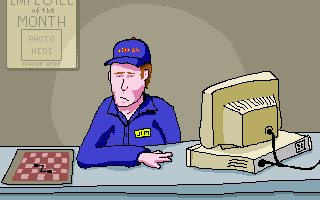
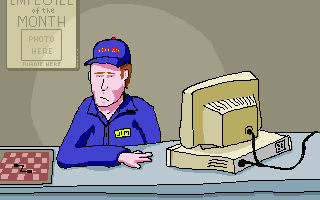
Beginnings of cutscene rendering.

diff --git a/connector/connector.js b/connector/connector.js
@@ -31,6 +31,7 @@ function Init() {
 
   window.sellframes = EzFrames(['sell1', 2, 'sell2', 2]);
   window.titleframes = EzFrames(['title', 1]);
+  window.deskbubbleframes = EzFrames(['deskbubble', 1]);
 
   // West-East
   var wirebar = ConnectorGraphic(5, 3);
@@ -163,6 +164,32 @@ function InitGame() {
   // These are canvas coordinates, updated on animation frame.
   window.mousex = 0;
   window.mousey = 0;
+
+
+  // Cutscenes..
+  window.cutscenes = {
+    intro: [{ f: EzFrames(['desk', 1]),
+	      s: song_menu,
+	      predelay: 40,
+	      t: [' Hey, I\'m Jim. I ',
+		  'work at Connector ',
+		  'World, your one-stop ',
+		  'shop for all your ',
+		  '   connecting needs.'] },
+	    { f: EzFrames(['desk', 1]),
+	      s: song_menu,
+	      t: [' Today I am gonna,',
+		  'be \'outsourcing\' my',
+		  'job. You\'re going',
+		  'to do it, because'] },
+	    { f: EzFrames(['desk', 1]),
+	      s: song_menu,
+	      t: [' you seem to think',
+		  'my job is some kind',
+		  'of game, which is',
+		  'weird.'] }
+	   ]
+  };
 
   console.log('initialized game');
 
@@ -474,6 +501,59 @@ function Trace(x, y, dir) {
   return null;
 }
 
+function DrawCutscene() {
+  var cuts = window.cutscenes[window.cutscene];
+  if (!cuts) throw 'invalid cutscene';
+  var cs = cuts[window.cutscene_idx];
+  if (!cs) throw 'invalid cutscene idx';
+
+  var predelay = cs.predelay || 10;
+  DrawFrame(cs.f, 0, 0);
+  window.cutscene_frames++;
+  if (window.cutscene_ffwd) window.cutscene_frames += 3;
+  if (window.cutscene_frames >= predelay) {
+    DrawFrame(window.deskbubbleframes, DESKBUBBLEX, DESKBUBBLEY);
+    var charsleft = 
+	// 1 char per frame, ok?
+	window.cutscene_frames - predelay;
+
+    var lines = cs.t;
+    for (var i = 0; i < lines.length; i++) {
+      var s = (lines[i].length <= charsleft) ?
+	  lines[i] :
+	  lines[i].substring(0, charsleft);
+      charsleft -= s.length;
+      font.Draw(ctx, CUTSCENETEXTX, 
+		CUTSCENETEXTY + FONTH * i,
+		s);
+    }
+    
+    if (charsleft > 0) {
+      // Allow continuing.
+      // (draw 'CLICK' indicator?)
+      window.cutscene_ready = true;
+      window.cutscene_ffwd = false;
+    }
+  }
+}
+
+function StartCutscene(name) {
+  window.cutscene = name;
+  window.cutscene_idx = 0;
+  window.cutscene_frames = 0;
+  window.cutscene_ffwd = false;
+  window.cutscene_ready = false;
+  
+  var cuts = window.cutscenes[window.cutscene];
+  if (!cuts) throw 'invalid cutscene';
+  var cs = cuts[window.cutscene_idx];
+  if (!cs) throw 'invalid cutscene idx';
+
+  if (song != cs.s) {
+    StartSong(cs.s);
+  }
+}
+
 function DrawPuzzle() {
   // ClearScreen();
   DrawFrame(window.boardbg, 0, 0);
@@ -722,6 +802,21 @@ function CanvasMousedownPuzzle(x, y) {
 
 }
 
+function CanvasMousedownCutscene(x, y) {
+  window.cutscene_ffwd = true;
+  if (window.cutscene_ready) {
+    window.cutscene_ready = false;
+    window.cutscene_ffwd = false;
+    window.cutscene_idx++;
+    window.cutscene_frames = 0;
+    // XXX CHECK DONE!!!
+  }
+}
+
+function CanvasMouseupCutscene(x, y) {
+  window.cutscene_ffwd = false;
+}
+
 function CanvasMousedown(e) {
   e = e || window.event;
   var bcx = bigcanvas.canvas.offsetLeft;
@@ -737,14 +832,12 @@ function CanvasMousedown(e) {
     if (x >= DOORX && x <= (DOORX + DOORW) &&
 	y >= DOORY && y <= (DOORY + DOORH)) {
       ClearSong();
-      // XXX cutscene
-      window.phase = PHASE_PUZZLE;
-      InitGame();
-      Level1();
+      window.phase = PHASE_CUTSCENE;
+      StartCutscene('intro');
     }
     break;
     case PHASE_CUTSCENE:
-    // advance cutscene...
+    return CanvasMousedownCutscene(x, y);
     break;
   }
 }
@@ -783,7 +876,7 @@ function CanvasMouseup(e) {
     // ignored
     break;
     case PHASE_CUTSCENE:
-    // ignored
+    return CanvasMouseupCutscene(x, y);
     break;
   }
 }
@@ -1127,8 +1220,8 @@ function Draw() {
     case PHASE_TITLE:
     DrawFrame(window.titleframes, 0, 0);
     break;
-    case PHASE_INTRO:
-    
+    case PHASE_CUTSCENE:
+    DrawCutscene();
     break;
     case PHASE_PUZZLE:
     DrawPuzzle();

diff --git a/connector/constants.js b/connector/constants.js
@@ -15,7 +15,7 @@ var BOARDSTARTX = 68;
 var BOARDSTARTY = 20;
 
 var PHASE_TITLE = 1;
-var PHASE_INTRO = 2;
+var PHASE_CUTSCENE = 2;
 var PHASE_PUZZLE = 3;
 // and end, ...
 
@@ -39,6 +39,9 @@ function ReverseDir(d) {
   return undefined;
 }
 
+var CUTSCENETEXTX = 149;
+var CUTSCENETEXTY = 5;
+
 var INDICATOR_IN = 1;
 var INDICATOR_OUT = 2;
 var INDICATOR_BOTH = 3;
@@ -60,7 +63,7 @@ var CELL_HEAD = 1;
 var CELL_WIRE = 2;
 // etc.?
 
-var DESKBUBBLEX = 154;
+var DESKBUBBLEX = 134;
 var DESKBUBBLEY = 0;
 
 var WIRE_NS = 1;
